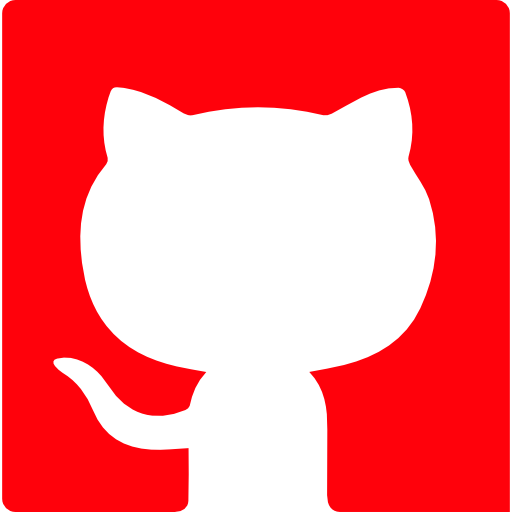
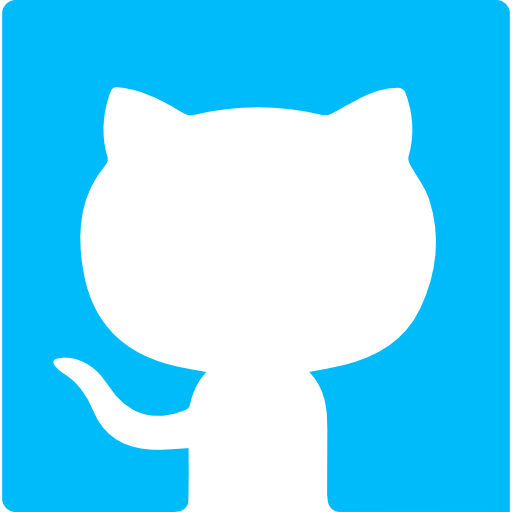
Adicionado Tema azul

diff --git a/style.css b/style.css
@@ -1,7 +1,7 @@
 :root {
     --font-color: #141C3A;
     --font-roxo: #141C3A;
-    --font-roxo1: #6D07F2;
+    --font-roxo1: #02baf8;
     --font-verde: #5BE9B9;
 
 }
@@ -12,6 +12,7 @@ body {
     font-family: 'Signika', sans-serif;
     overflow-x: hidden;
     margin-bottom: 1100px;
+
    
 }
 
@@ -43,10 +44,10 @@ body.dark .cat {
     color: white;
 }
 body.dark #texto-sobre {
-    color: #dfdfdf;
+    color: #ffffff;
 }
 body.dark #titu-sobre {
-    color: var(--font-verde);
+    color: var(--font-roxo1);
 }
 body.dark .containerCurso:hover{
     color: black;
@@ -55,7 +56,7 @@ body.dark .containerCurso h1 {
     color: white;
 }
 body.dark .containerCurso p {
-    color: rgb(187, 187, 187);
+    color: rgb(255, 255, 255);
 }
 body.dark .tituloArea {
     color: white;
@@ -87,7 +88,7 @@ body.dark .descrisaoProfissao {
     color: rgb(182, 182, 182);
 }
 body.dark .dataProfissao {
-    color: white;
+    color: rgb(44, 44, 44);
 }
 
 
@@ -198,6 +199,7 @@ body.dark #principal h1{
     left: 11vw;
     margin: 0;
     font-size: 5vw;
+    transition: all 0.5s;
 }
 
 #principal p {
@@ -215,6 +217,7 @@ body.dark #principal h1{
     top: 2vw;
     height: 36vw;
     left: -5vw;
+    transition: all 0.5s;
     border-radius: 5px;
 }
 
@@ -225,13 +228,14 @@ body.dark #principal h1{
     font-size: 3.1vw;
     left: 38vw;
     width: 45vw;
+    transition: all 0.5s;
 
 }
 
 #titu-sobre {
     position: absolute;
     top: 1vw;
-    color: #6D07F2;
+    color: var(--font-roxo1);
     left: 38vw;
     margin: 0;
     width: 171px;
@@ -317,16 +321,16 @@ body.dark #principal h1{
 /*  Data da Formação  */
 .containerCurso h2 {
     position: absolute;
-    color: #8d8d8d;
+    color: #5f5f5f;
     top: -0.5vw;
     left: 75vw;
     font-weight: 100;
      font-size: 3vw;
 }
 .containerCurso:hover {
-    background-color: var(--font-verde);
+    background-color: var(--font-roxo1);
     border-radius: 3px;
-    color: black;
+    color: rgb(255, 255, 255);
     border: solid 1px rgb(224, 224, 224);
     box-shadow: 0 0 2px 1px rgba(31, 31, 31, 0.08);
     }
@@ -527,6 +531,7 @@ body.dark #principal h1{
 
 .categorias {
     margin: 0;
+    transition: all 0.1s;
 }
 
 .categorias li {
@@ -557,7 +562,7 @@ body.dark #principal h1{
         font-size: 5vw;
     margin: 0;
 
-    border-right: 2px solid #6d07f2ff;
+    border-right: 2px solid var(--font-roxo1);
     color: var(--font-color);
     animation: pisca normal infinite .9s, escrever normal 5s steps(50) both;
     max-width: 0px;
@@ -569,7 +574,7 @@ body.dark #principal h1{
     position: absolute;
     top: 9vw;
     left: 10.5vw;
-    background-color: #6d07f2ff;
+    background-color: var(--font-roxo1);
     height: 0.6vw;
     border-radius: 100px;
     width: 53vw;
@@ -604,7 +609,7 @@ header li a {
 
 .cat:hover {
 
-    border-top: 3px solid #6d07f2ff;
+    border-top: 3px solid var(--font-roxo1);
 
 
 }

diff --git a/experiencia-style.css b/experiencia-style.css
@@ -30,13 +30,16 @@ position: absolute;
     left: 3.5vw;
     height: 28vw;
     transition: all .10s;
-        transition: 0.3s;
+    transition: 0.3s;
     width: 92vw;
+    border: solid 1px rgb(238, 238, 238);
     z-index: 2;
 }
 .experienciaContainer:hover{
+        top: 60px;
         transition: all .10s;
-        border: solid 1px #E4E4E4;
+        border-radius: 3px;
+        border: solid 3px var(--font-roxo1);
         box-shadow: 0 0 2px 1px rgba(31, 31, 31, 0.08);
 }
 .cargoExperiencia {
@@ -86,6 +89,7 @@ z-index: 2;
 #experienciaTecnico{
         transition: 0.3s;
 }
+
 #experienciaTecnico2{
     top:53vw;
     transition: 0.3s;
@@ -102,6 +106,9 @@ top: 13vw;
     height: 102vw;
     background-color: var(--font-roxo1);
     z-index: 1;
+}
+#experienciaTecnico2:hover {
+    top: 200px;
 }
 
 
